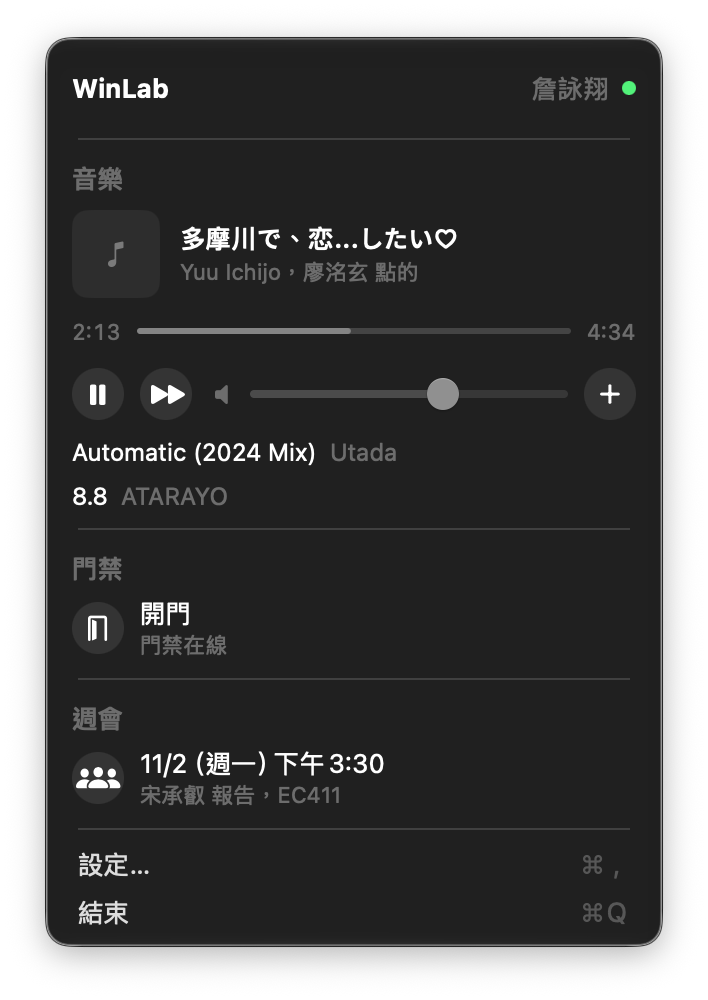
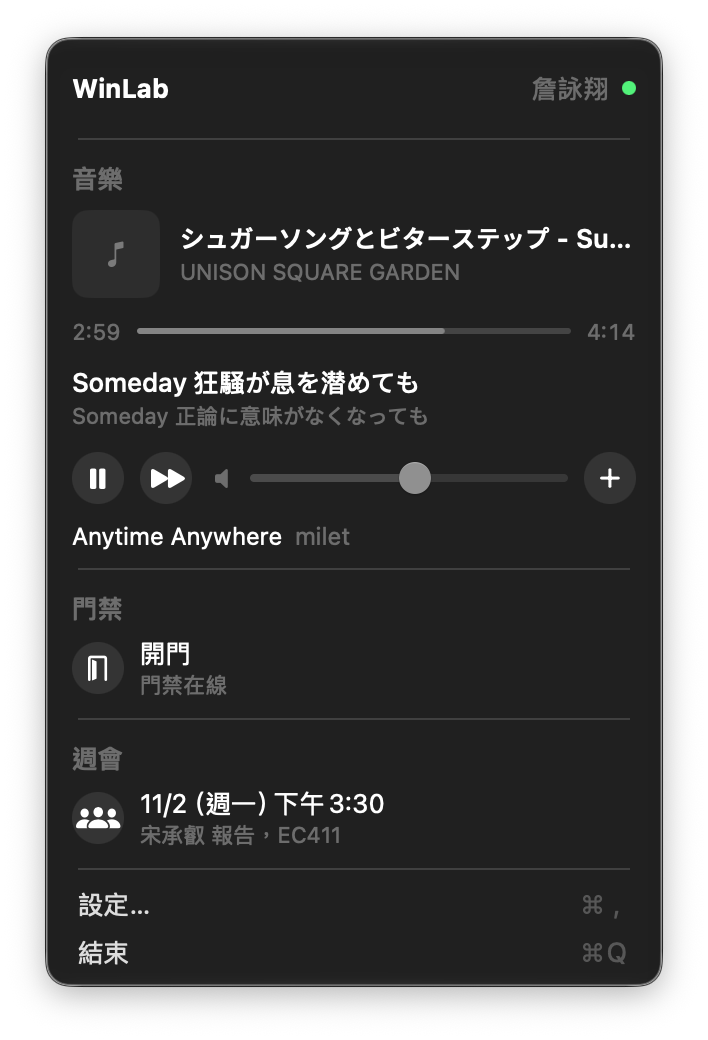
feat: synced lyrics in the menu bar and the menu (#10)
The line being sung shows beside the menu bar icon (設定 > 選單列顯示:
歌詞, 歌名 or 不顯示; lyrics by default, the title before the first
line and in gaps). The menu shows the line and the next one under the
song. Lyrics come from portal get_lyrics, now on API keys (portal #183).
ContractGen merges same-named keys across union branches, so atS keeps
both number and null.

diff --git a/Sources/WinLab/StatusMenu.swift b/Sources/WinLab/StatusMenu.swift
@@ -35,11 +35,26 @@ final class StatusMenu: NSObject, NSMenuDelegate {
 
     // MARK: - Menu bar label
 
+    private var lyricTimer: Timer?
+    private var shownPlaying: Bool?
+
     private func trackLabel() {
         withObservationTracking {
             updateLabel()
         } onChange: { [weak self] in
             Task { @MainActor in self?.trackLabel() }
+        }
+        // Lyrics move with the clock, not with the model; Settings changes
+        // arrive through UserDefaults.
+        if lyricTimer == nil {
+            lyricTimer = Timer.scheduledTimer(withTimeInterval: 0.25, repeats: true) { [weak self] _ in
+                MainActor.assumeIsolated { self?.updateLabel() }
+            }
+            NotificationCenter.default.addObserver(
+                forName: UserDefaults.didChangeNotification, object: nil, queue: .main
+            ) { [weak self] _ in
+                MainActor.assumeIsolated { self?.updateLabel() }
+            }
         }
     }
 
@@ -47,17 +62,29 @@ final class StatusMenu: NSObject, NSMenuDelegate {
         guard let button = item.button else { return }
         let music = model.music
         let playing = music?.current != nil && music?.paused == false && music?.state == .playing
-        let defaults = UserDefaults.standard
-        if playing {
-            button.image = NSImage(systemSymbolName: "music.note", accessibilityDescription: "播放中")
-        } else {
-            button.image = MenuBarLabel.mascot ?? NSImage(systemSymbolName: "antenna.radiowaves.left.and.right", accessibilityDescription: "WinLab")
+        if playing != shownPlaying {
+            shownPlaying = playing
+            button.image = playing
+                ? NSImage(systemSymbolName: "music.note", accessibilityDescription: "播放中")
+                : MenuBarLabel.mascot ?? NSImage(systemSymbolName: "antenna.radiowaves.left.and.right", accessibilityDescription: "WinLab")
         }
-        if playing, defaults.bool(forKey: Pref.showTitleInMenuBar), let title = music?.current?.track.title {
-            button.title = " " + MenuBarLabel.truncate(title, width: Pref.titleWidth)
-        } else {
-            button.title = ""
+        var text = ""
+        if playing, let title = music?.current?.track.title {
+            switch MenuBarText.current {
+            case .lyrics:
+                // The line being sung; the title until the first line and in gaps.
+                if let line = model.lyric(at: Date()).current {
+                    text = MenuBarLabel.truncate(line, width: Pref.lyricWidth)
+                } else {
+                    text = MenuBarLabel.truncate(title, width: Pref.titleWidth)
+                }
+            case .title: text = MenuBarLabel.truncate(title, width: Pref.titleWidth)
+            case .none: break
+            }
         }
+        let title = text.isEmpty ? "" : " " + text
+        if button.title != title { button.title = title }
+        _ = model.lyrics.count
     }
 
     // MARK: - NSMenuDelegate

diff --git a/Sources/ContractGen/main.swift b/Sources/ContractGen/main.swift
@@ -127,19 +127,33 @@ func indent(_ text: String, _ by: Int = 1) -> String {
         .map { $0.isEmpty ? "" : pad + $0 }.joined(separator: "\n")
 }
 
+/// Two schemas for the same value, merged: objects key by key, arrays item
+/// by item, anything else as an anyOf (number or null becomes Double?).
+func mergeSchemas(_ a: Schema, _ b: Schema) -> Schema {
+    let ta = a["type"] as? String, tb = b["type"] as? String
+    if ta == "object", tb == "object" { return mergeObjects([a, b]) }
+    if ta == "array", tb == "array" {
+        return ["type": "array", "items": mergeSchemas((a["items"] as? Schema) ?? [:], (b["items"] as? Schema) ?? [:])]
+    }
+    if NSDictionary(dictionary: a).isEqual(to: b) { return a }
+    let parts = ((a["anyOf"] as? [Schema]) ?? [a]) + ((b["anyOf"] as? [Schema]) ?? [b])
+    return ["anyOf": parts]
+}
+
 /// Objects in an anyOf merged into one: a key missing from some variant
-/// becomes optional.
+/// becomes optional, and a key in several variants takes every shape.
 func mergeObjects(_ variants: [Schema]) -> Schema {
-    var properties: [String: Any] = [:]
+    var properties: [String: Schema] = [:]
     var required: Set<String>?
     for v in variants {
-        for (k, s) in (v["properties"] as? [String: Any]) ?? [:] where properties[k] == nil {
-            properties[k] = s
+        for (k, s) in (v["properties"] as? [String: Any]) ?? [:] {
+            guard let s = s as? Schema else { continue }
+            properties[k] = properties[k].map { mergeSchemas($0, s) } ?? s
         }
         let r = Set((v["required"] as? [String]) ?? [])
         required = required.map { $0.intersection(r) } ?? r
     }
-    return ["type": "object", "properties": properties, "required": Array(required ?? [])]
+    return ["type": "object", "properties": properties, "required": Array(required ?? []).sorted()]
 }
 
 /// The Swift type for a schema, declaring nested types in scope. Returns the
@@ -152,6 +166,9 @@ func swiftType(_ schema: Schema, named: String, side: Side, scope: Scope) -> (St
             let (t, inner) = swiftType(rest[0], named: named, side: side, scope: scope)
             return (t, nullable || inner)
         }
+        // Same primitive twice (true and false, two enums): one of them.
+        let kinds = Set(rest.compactMap { $0["type"] as? String })
+        if kinds.count == 1, kinds.first == "boolean" { return ("Bool", nullable) }
         if !rest.isEmpty, rest.allSatisfy({ ($0["type"] as? String) == "object" }) {
             return (swiftType(mergeObjects(rest), named: named, side: side, scope: scope).0, nullable)
         }

diff --git a/Sources/WinLab/AppModel.swift b/Sources/WinLab/AppModel.swift
@@ -36,6 +36,9 @@ final class AppModel {
     private(set) var music: NowPlaying.Output?
     private(set) var musicFetchedAt = Date()
     private(set) var queue: [ListQueue.Output.Item] = []
+    /// Timed lyrics of the playing song, in order; empty when there are none.
+    private(set) var lyrics: [GetLyrics.Result.Line] = []
+    private var lyricsFor: String?
     private(set) var door: GetDoorStatus.Output?
     private(set) var meeting: GetNextLabMeeting.Output.Meeting?
     private(set) var myBookings: [ListMeetings.Output.Booking] = []
@@ -248,6 +251,36 @@ final class AppModel {
             self.musicFetchedAt = Date()
             self.queue = try await list.items
         }
+        await loadLyrics()
+    }
+
+    /// Lyrics follow the song: fetched once per song, kept only when timed.
+    private func loadLyrics() async {
+        guard let videoId = music?.current?.track.videoId else {
+            lyrics = []
+            lyricsFor = nil
+            return
+        }
+        guard videoId != lyricsFor else { return }
+        lyricsFor = videoId
+        lyrics = []
+        guard let result = try? await client.run(GetLyrics.self, .init(videoId: videoId)), result.timed,
+              music?.current?.track.videoId == videoId
+        else { return }
+        lyrics = result.lines.filter { $0.atS != nil }.sorted { ($0.atS ?? 0) < ($1.atS ?? 0) }
+    }
+
+    /// The line being sung and the one after it; nil before the first line
+    /// or in a gap (an empty line).
+    func lyric(at date: Date) -> (current: String?, next: String?) {
+        guard !lyrics.isEmpty else { return (nil, nil) }
+        let position = self.position(at: date)
+        guard let index = lyrics.lastIndex(where: { ($0.atS ?? 0) <= position }) else {
+            return (nil, lyrics.first?.text)
+        }
+        let current = lyrics[index].text.trimmingCharacters(in: .whitespaces)
+        let next = lyrics[(index + 1)...].first { !$0.text.trimmingCharacters(in: .whitespaces).isEmpty }?.text
+        return (current.isEmpty ? nil : current, next)
     }
 
     private func loadRooms() async {

diff --git a/Sources/WinLab/Preferences.swift b/Sources/WinLab/Preferences.swift
@@ -2,7 +2,7 @@ import Foundation
 
 /// UserDefaults keys, one place, so views and the model agree.
 enum Pref {
-    static let showTitleInMenuBar = "showTitleInMenuBar"
+    static let menuBarText = "menuBarText"
     static let notify = "notify"
     static let launchAtLoginOffered = "launchAtLoginOffered"
     static let seenAnnouncements = "seenAnnouncements"
@@ -10,11 +10,12 @@ enum Pref {
 
     /// Fixed choices that used to be settings.
     static let titleWidth = 160
+    static let lyricWidth = 240
     static let volumeStep = 5
     static let meetingLeadMinutes = 10
 
     static func registerDefaults() {
-        UserDefaults.standard.register(defaults: [showTitleInMenuBar: true, notify: true])
+        UserDefaults.standard.register(defaults: [menuBarText: MenuBarText.lyrics.rawValue, notify: true])
     }
 }
 
@@ -55,5 +56,24 @@ enum MenuSection: String, CaseIterable, Identifiable, Codable {
         case .bento: "bento"
         case .bulletin: "bulletin"
         }
+    }
+}
+
+/// What the menu bar shows beside the icon while a song plays.
+enum MenuBarText: String, CaseIterable, Identifiable {
+    case lyrics, title, none
+
+    var id: String { rawValue }
+
+    var label: String {
+        switch self {
+        case .lyrics: "歌詞"
+        case .title: "歌名"
+        case .none: "不顯示"
+        }
+    }
+
+    static var current: MenuBarText {
+        MenuBarText(rawValue: UserDefaults.standard.string(forKey: Pref.menuBarText) ?? "") ?? .lyrics
     }
 }

diff --git a/Sources/PortalKit/Generated.swift b/Sources/PortalKit/Generated.swift
@@ -8,6 +8,7 @@ public enum Contract {
         "add_bento_order_item": (app: "bento", hash: "cbb8a827b0d66f9f"),
         "get_bento_order": (app: "bento", hash: "d4c0ee71b195897b"),
         "get_door_status": (app: "door", hash: "5104c2a84fcdfd13"),
+        "get_lyrics": (app: "music", hash: "1c108c98a4be3a31"),
         "get_next_lab_meeting": (app: "meetings", hash: "b1fd95b2454c78fa"),
         "list_announcements": (app: "bulletin", hash: "441ae543f9b00897"),
         "list_bento_orders": (app: "bento", hash: "0f6c95bc5e889291"),
@@ -201,6 +202,33 @@ public enum GetDoorStatus: PortalAction {
         public var configured: Bool
         public var online: Bool
     }
+}
+
+/// 歌詞
+public enum GetLyrics: PortalAction {
+    public static let name = "get_lyrics"
+    public static let app = "music"
+    public static let hash = "1c108c98a4be3a31"
+
+    public struct Input: Encodable, Sendable, Equatable {
+        public var videoId: String
+
+        public init(videoId: String) {
+            self.videoId = videoId
+        }
+    }
+
+    public struct Result: Decodable, Sendable, Equatable {
+        public var lines: [Line]
+        public var timed: Bool
+
+        public struct Line: Decodable, Sendable, Equatable {
+            public var atS: Double?
+            public var text: String
+        }
+    }
+
+    public typealias Output = Result
 }
 
 /// 下一場實驗室會議

diff --git a/Sources/WinLab/MenuRows.swift b/Sources/WinLab/MenuRows.swift
@@ -209,6 +209,25 @@ struct NowPlayingRow: View {
                         .foregroundStyle(.secondary)
                     }
                 }
+                if !model.lyrics.isEmpty {
+                    TimelineView(.periodic(from: .now, by: 0.25)) { context in
+                        let line = model.lyric(at: context.date)
+                        VStack(alignment: .leading, spacing: 2) {
+                            Text(line.current ?? "♪")
+                                .font(.system(size: 13, weight: .medium))
+                                .lineLimit(2)
+                                .contentTransition(.opacity)
+                                .animation(.easeInOut(duration: 0.2), value: line.current)
+                            if let next = line.next {
+                                Text(next)
+                                    .font(.system(size: 11))
+                                    .foregroundStyle(.secondary)
+                                    .lineLimit(1)
+                            }
+                        }
+                        .frame(maxWidth: .infinity, alignment: .leading)
+                    }
+                }
                 if !music.online {
                     Label("實驗室的播放器離線", systemImage: "exclamationmark.triangle")
                         .font(.system(size: 11))

diff --git a/Tests/PortalKitTests/PortalKitTests.swift b/Tests/PortalKitTests/PortalKitTests.swift
@@ -35,6 +35,15 @@ import Testing
         }
     }
 
+    @Test func lyricsTimedAndPlain() throws {
+        let timed = #"{"timed":true,"lines":[{"atS":12.3,"text":"第一句"},{"atS":15,"text":""}]}"#
+        let a = try PortalClient.decoder.decode(GetLyrics.Output.self, from: Data(timed.utf8))
+        #expect(a.timed && a.lines.first?.atS == 12.3)
+        let plain = #"{"timed":false,"lines":[{"atS":null,"text":"沒有時間軸"}]}"#
+        let b = try PortalClient.decoder.decode(GetLyrics.Output.self, from: Data(plain.utf8))
+        #expect(!b.timed && b.lines.first?.atS == nil)
+    }
+
     @Test func inputsEncodeWithoutNils() throws {
         let data = try JSONEncoder().encode(ListBentoOrders.Input(limit: 5, status: .open))
         let object = try JSONSerialization.jsonObject(with: data) as? [String: Any]
@@ -68,7 +77,7 @@ import Testing
         let names = [
             Whoami.name, NowPlaying.name, ListQueue.name, SetPaused.name, SkipSong.name, SetVolume.name,
             GetDoorStatus.name, OpenDoor.name, GetNextLabMeeting.name, ListBentoOrders.name,
-            GetBentoOrder.name, AddBentoOrderItem.name, ListMeetings.name,
+            GetBentoOrder.name, AddBentoOrderItem.name, ListMeetings.name, GetLyrics.name,
             ListAnnouncements.name,
         ]
         #expect(Set(names) == Set(Contract.actions.keys))

diff --git a/Sources/WinLab/SettingsView.swift b/Sources/WinLab/SettingsView.swift
@@ -16,7 +16,7 @@ enum SettingsWindow {
 struct SettingsView: View {
     @Environment(AppModel.self) private var model
     @Environment(Updater.self) private var updater
-    @AppStorage(Pref.showTitleInMenuBar) private var showTitle = true
+    @AppStorage(Pref.menuBarText) private var menuBarText = MenuBarText.lyrics.rawValue
     @AppStorage(Pref.notify) private var notify = true
     @State private var key = ""
     @State private var launchAtLogin = SMAppService.mainApp.status == .enabled
@@ -44,7 +44,9 @@ struct SettingsView: View {
             Section("一般") {
                 Toggle("登入時開啟", isOn: $launchAtLogin)
                     .onChange(of: launchAtLogin) { _, on in setLaunchAtLogin(on) }
-                Toggle("選單列顯示歌名", isOn: $showTitle)
+                Picker("選單列顯示", selection: $menuBarText) {
+                    ForEach(MenuBarText.allCases) { Text($0.label).tag($0.rawValue) }
+                }
                 Toggle("通知公告、便當開單和週會提醒", isOn: $notify)
             }
 
